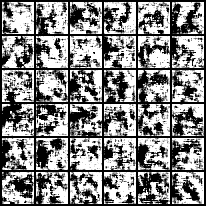
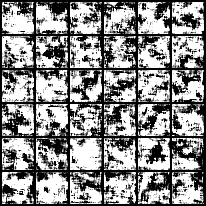
weigth init

diff --git a/custom.py b/custom.py
@@ -13,17 +13,24 @@ class ConvBlock(nn.Module):
         if Deconv:
             self.layer = nn.ConvTranspose2d
             self.relu = nn.LeakyReLU(lrelu)
+            nl = 'leaky_relu'
         else:
             self.layer = nn.Conv2d
             self.relu = nn.ReLU()
+            nl = 'relu'
             
         self.activation = nn.Sequential(
             nn.BatchNorm2d(o_c),
             self.relu
         )
+
+        #weight initialization
+        self.layer = self.layer(i_c, o_c, kernel_size, stride=stride, padding=padding, bias=bias)
+        nn.init.kaiming_normal_(self.layer.weight, nonlinearity=nl)
+        
         
         self.Sequential = nn.Sequential(
-            self.layer(i_c, o_c, kernel_size, stride=stride, padding=padding, bias=bias),
+            self.layer,
             self.activation
         )
         

diff --git a/trainer.py b/trainer.py
@@ -111,10 +111,15 @@ class PGAN:
             images = self.G(latent).clone().detach()
             images = images.reshape(images.size(0), self.P.G.ch_image, 2**self.P.G.p_max, 2**self.P.G.p_max)
             
-            directory = 'cgize/images'
+            directory = 'images'
                 
             images = denorm(images)
             save_image(images, os.path.join(directory, 'demo.png'), nrow=size)
             
+P = Properties()
+# P.D.lr = 5e-7
+DL = mnist_get_data(P.device, 100)
 
+pgan = PGAN(P, DL)
+pgan.fit(10)
 
